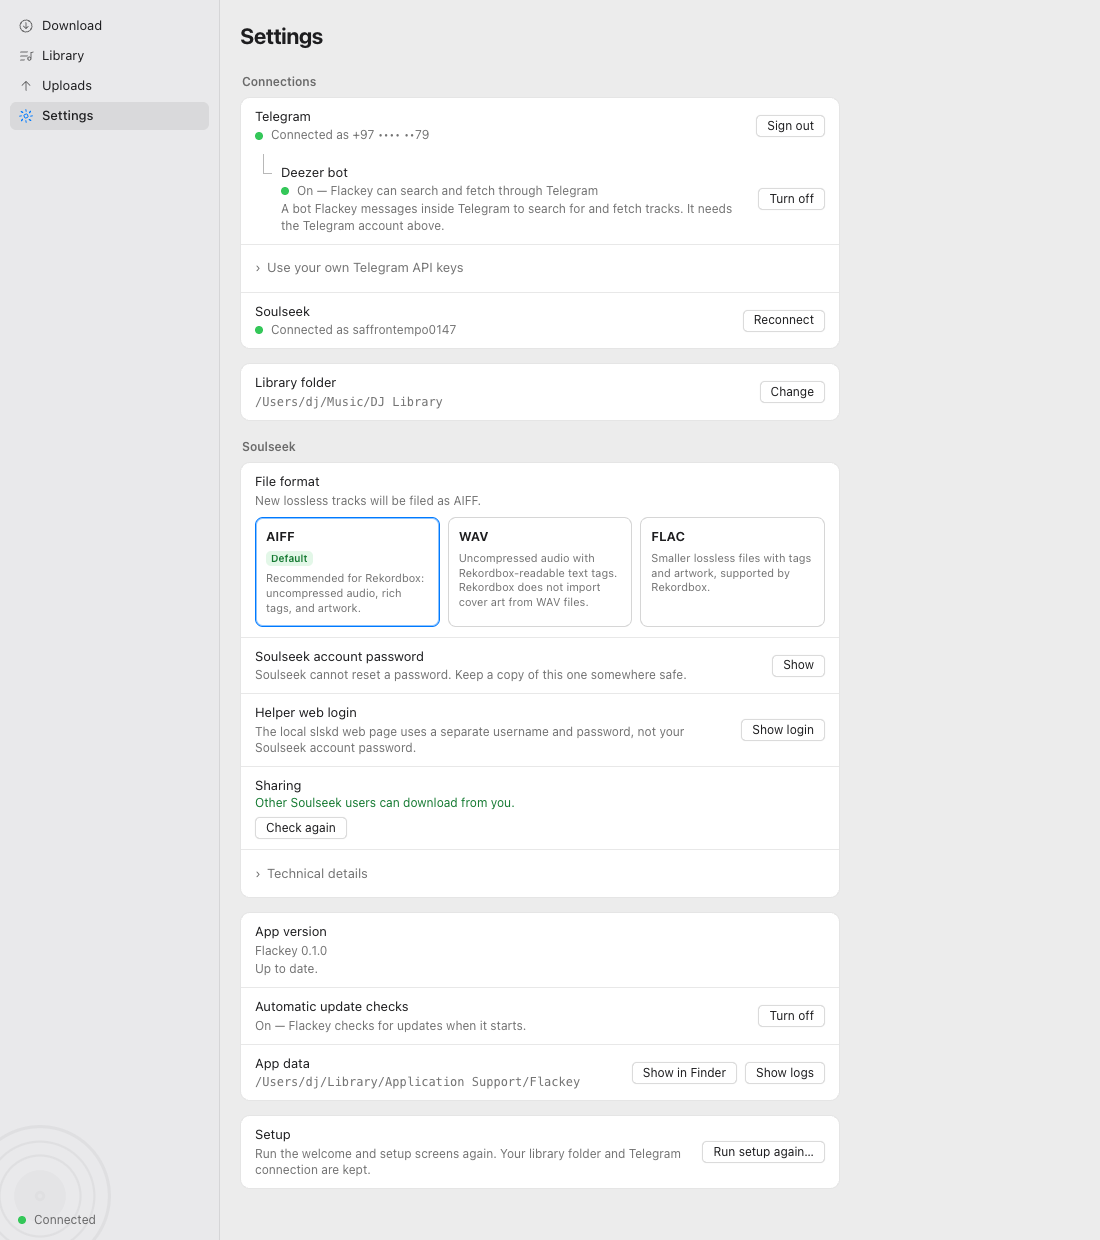
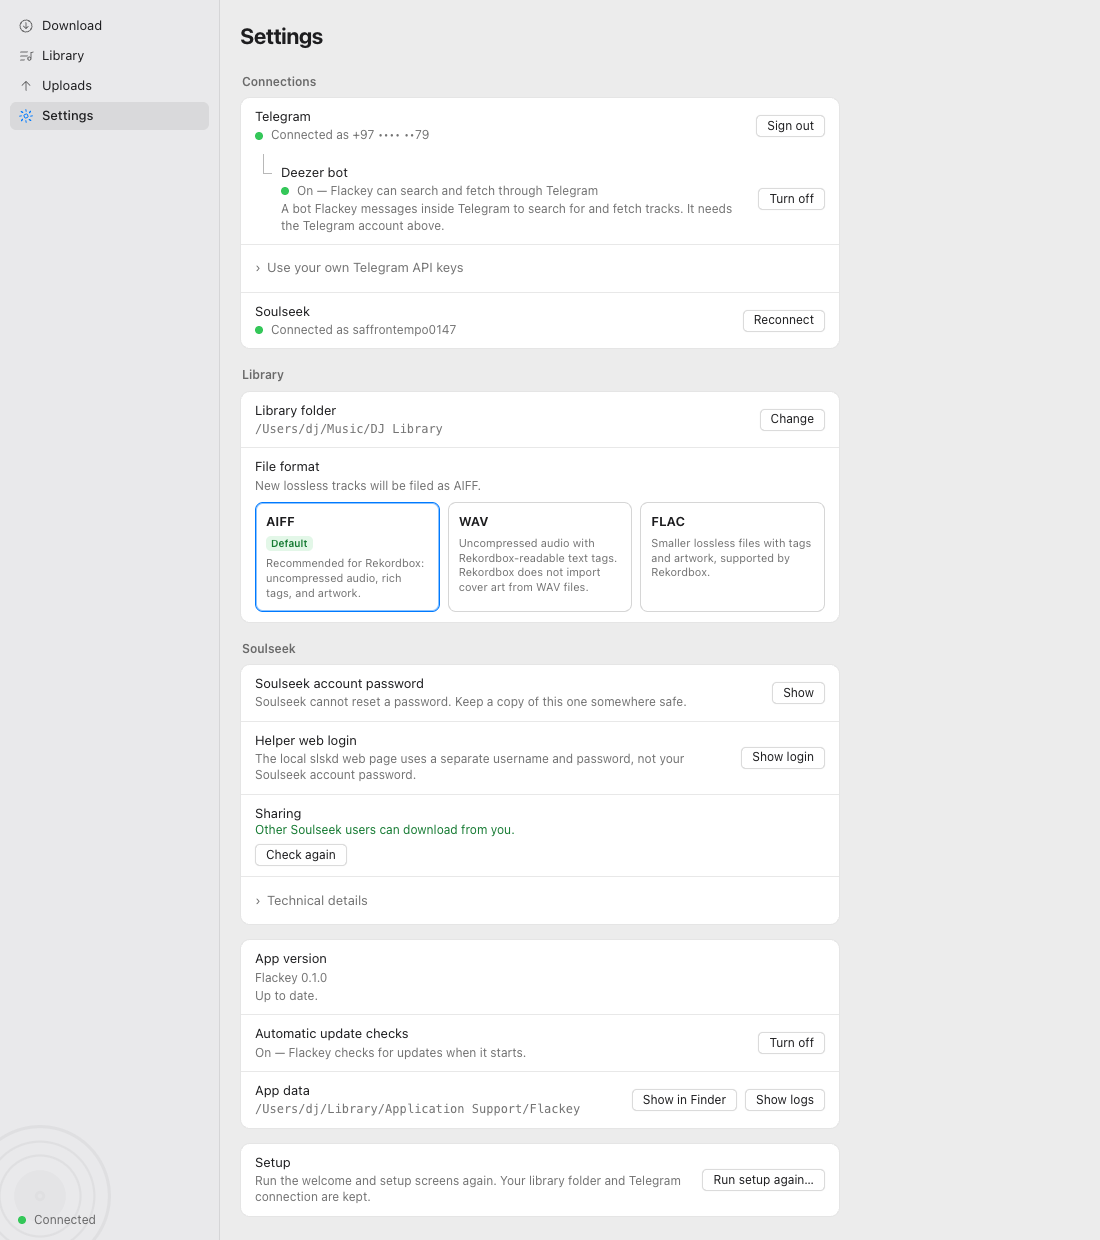
File the format choice under Library, not Soulseek
The filing format applies to every lossless download whatever fetched
it, so a Soulseek heading over it claimed a scope it does not have --
the same implication-by-position this branch exists to remove. It joins
the library folder instead: where tracks land, and what they land as.

That also gives the folder card the heading it was missing, and leaves
the Soulseek box to rows that really are Soulseek. Nothing in that box
is unconditional any more, so it is drawn only when it would hold
something rather than leaving a titled empty card behind.

Claude-Session: https://claude.ai/code/session_01PQoWyfVDM9hn3sPjNMzGF4

diff --git a/web/src/components/SettingsPage.tsx b/web/src/components/SettingsPage.tsx
@@ -131,6 +131,9 @@ export default function SettingsPage({ live, onReconnect }: { live: Live; onReco
   }
   const lossless: LosslessHealth | undefined = live.health?.lossless
   const soulseek = soulseekLine(lossless)
+  // The same three conditions the rows in that box carry, asked once: an account's two logins and its
+  // sharing state, or the diagnostics. None of them is a given, so neither is the box.
+  const soulseekRows = !!s.soulseek_enabled || !!s.ports || !!(lossless?.enabled && s.ranking)
   const reconnectSoulseek = () => {
     setReconnecting(true); setSoulseekError(null)
     api.connectSoulseek()
@@ -244,22 +247,29 @@ export default function SettingsPage({ live, onReconnect }: { live: Live; onReco
             <button className="btn-secondary" onClick={reconnectSoulseek} disabled={reconnecting}>
               {reconnecting ? 'Reconnecting…' : soulseek.ok ? 'Reconnect' : 'Try again'}</button>}</div></div>
       </div>
+      {/* Where tracks land and what they land as: one question, so one box. The format switch used to
+          sit with the Soulseek rows, which said -- by position, the way the Deezer bot's dependency used
+          to be said -- that it governed Soulseek downloads only. It governs every lossless download,
+          whichever source fetched it, so it belongs beside the folder they all land in. */}
+      <h2>Library</h2>
       <div className="group">
         <div className="srow"><div className="srow-body"><div className="k">Library folder</div>
           {editing ? <><input className="input" value={path} onChange={e => setPath(e.target.value)} />{err && <div className="err">{err}</div>}</> : <div className="v mono">{s.library_root}</div>}</div>
           <div className="actions">{editing
             ? <>{pickerAvailable && <button className="btn-secondary" onClick={chooseFolderClicked} disabled={busy}>Choose…</button>}<button className="btn-secondary" onClick={() => { setEditing(false); setErr(null) }} disabled={busy}>Cancel</button><button className="btn-primary" onClick={save} disabled={busy}>Save</button></>
             : <button className="btn-secondary" onClick={() => { setPath(s.library_root); setEditing(true); setErr(null) }}>Change</button>}</div></div>
-      </div>
-      {/* Titled because the status row that used to open this box -- and say what the box was about --
-          now sits up in Connections. What is left is everything about Soulseek that is not the question
-          "is it connected": what its downloads are filed as, its two logins, and the diagnostics. */}
-      <h2>Soulseek</h2>
-      <div className="group">
         <div className="srow"><div className="srow-body"><div className="k">File format</div>
           <div className="v">New lossless tracks will be filed as {FORMAT_LABELS[currentFormat] ?? currentFormat.toUpperCase()}.</div>
           <FormatOptions formats={formats} value={currentFormat} onChange={saveFormat} disabled={formatBusy} />
           {formatError && <div className="err">{formatError}</div>}</div></div>
+      </div>
+      {/* What is left is Soulseek and nothing else: its two logins, whether other people can reach this
+          Mac, and the diagnostics. Every row inside is conditional, and with the format switch moved out
+          none of them is guaranteed -- so the heading and its box are drawn only when something would
+          actually be inside, rather than leaving a titled empty card on a copy with no account. */}
+      {soulseekRows && <>
+      <h2>Soulseek</h2>
+      <div className="group">
         {/* Soulseek has no password reset: the name is bound to the password it was claimed with, and
             Flackey generated both. So the owner has to be able to get this string back -- without it they
             cannot sign in from any other machine, ever, and the account is gone. Behind a press rather than
@@ -303,7 +313,7 @@ export default function SettingsPage({ live, onReconnect }: { live: Live; onReco
                 Survivors are ordered by quality, then by who can send now. Flackey tries up to {s.ranking.max_picks} of
                 them, and keeps a copy only if its fingerprint matches the original at {Math.round(s.ranking.fingerprint_min * 100)}% or better.</div></>}
           </details></div></div>}
-      </div>
+      </div></>}
       <div className="group">
         <div className="srow"><div className="srow-body"><div className="k">App version</div>
           <div className="v">Flackey {s.version}</div>

diff --git a/web/src/components/SettingsPage.test.tsx b/web/src/components/SettingsPage.test.tsx
@@ -26,7 +26,8 @@ beforeEach(() => {
 /* The whole point of the Connections section is where things sit, and a `getByText` passes just as
    happily when the three connections are scattered over three cards again. Everything below asks which
    box, and in what order, rather than only whether the words are on screen. */
-const connections = () => screen.getByRole('heading', { name: 'Connections' }).nextElementSibling as HTMLElement
+const section = (name: string) => screen.getByRole('heading', { name }).nextElementSibling as HTMLElement
+const connections = () => section('Connections')
 /* Scoped to that box on purpose: "Soulseek" is both a connection row and the heading of the box holding
    everything else about it, so an unscoped lookup would have two answers. */
 const connRow = (name: string) => within(connections()).getByText(name).closest('.srow') as HTMLElement
@@ -201,11 +202,21 @@ describe('the Connections section', () => {
     expect(onReconnect).toHaveBeenCalled()
   })
 
-  it('leaves the rest of Soulseek in its own titled box, below', () => {
+  it('files the format question with the folder, where it belongs', () => {
+    // The format applies to every lossless download, whatever fetched it. Under a Soulseek heading it
+    // would claim to be a Soulseek setting -- the same implication-by-position this section removes.
     render(<SettingsPage live={live} onReconnect={() => {}} />)
-    const soulseek = screen.getByRole('heading', { name: 'Soulseek' }).nextElementSibling as HTMLElement
-    expect(soulseek).toContainElement(screen.getByText('File format'))
-    expect(soulseek).not.toContainElement(connRow('Soulseek'))
+    const library = section('Library')
+    expect(library).toContainElement(screen.getByText('Library folder'))
+    expect(library).toContainElement(screen.getByText('File format'))
+  })
+
+  it('draws no Soulseek box when there is nothing Soulseek-specific to put in it', () => {
+    // Nothing in that box is unconditional now the format has moved out, so a copy with no account and
+    // no port table must not be given a titled empty card.
+    render(<SettingsPage live={live} onReconnect={() => {}} />)
+    expect(screen.queryByRole('heading', { name: 'Soulseek' })).not.toBeInTheDocument()
+    expect(connRow('Soulseek')).toBeInTheDocument()
   })
 })
 
@@ -324,6 +335,18 @@ describe('the Soulseek panel', () => {
   it('has no reconnect button when there is no account to reconnect', () => {
     show(lossless({ enabled: false }), settings({ soulseek_enabled: false }))
     expect(screen.queryByRole('button', { name: /Reconnect|Try again/ })).not.toBeInTheDocument()
+  })
+
+  it('keeps its own box to rows that really are Soulseek', () => {
+    // The two logins, the sharing state and the diagnostics -- but not the filing format, which governs
+    // every lossless download and lives with the library folder those downloads land in.
+    show(lossless({ provider: { name: 'soulseek', status: 'ok', username: 'digger' } }))
+    const box = section('Soulseek')
+    for (const name of ['Soulseek account password', 'Helper web login', 'Sharing', 'Technical details']) {
+      expect(box).toContainElement(screen.getByText(name))
+    }
+    expect(box).not.toContainElement(screen.getByText('File format'))
+    expect(section('Library')).toContainElement(screen.getByText('File format'))
   })
 
   it('lets the owner choose the future lossless filing format', async () => {
